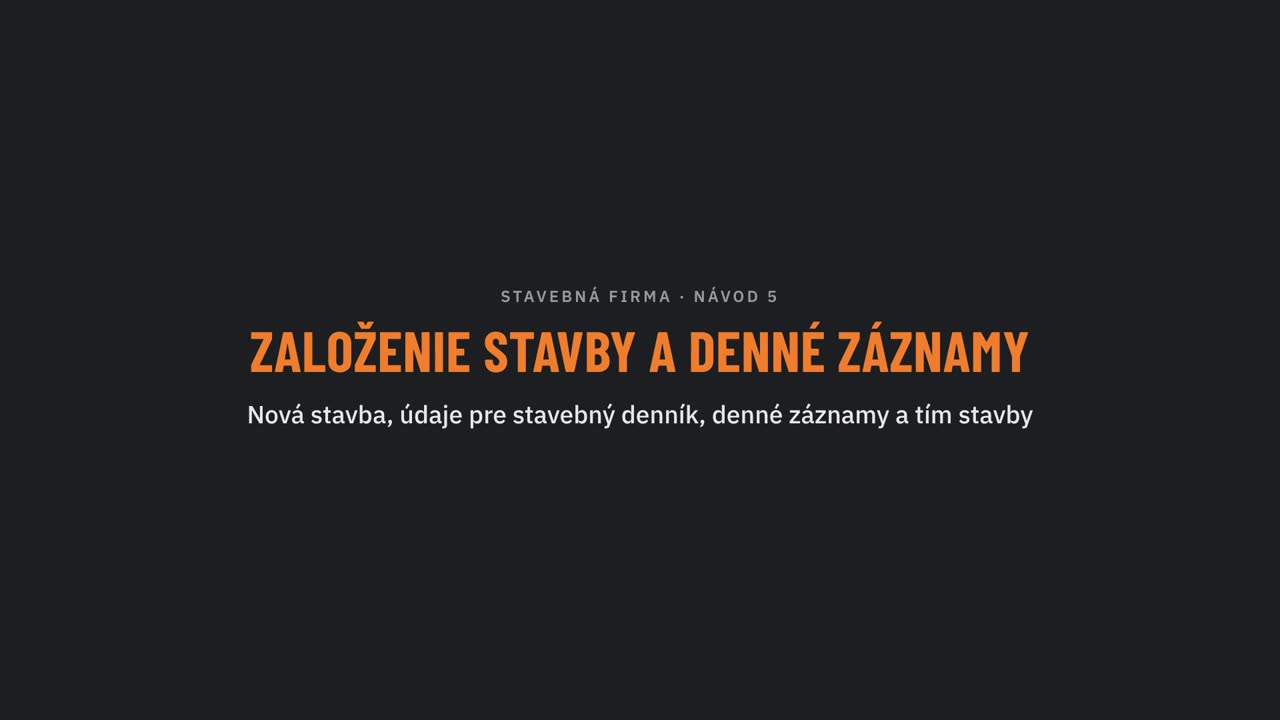
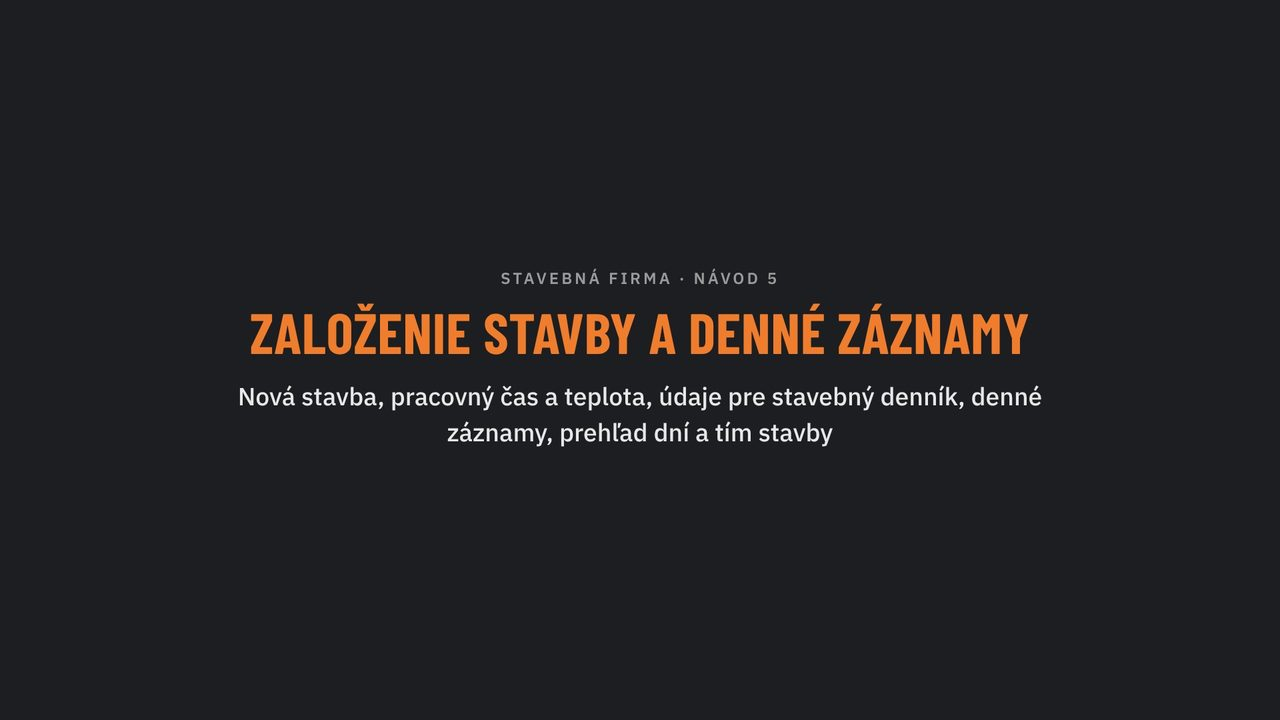
Ako to funguje: nové video 5 (denné záznamy) a návody 14–16 k modulu Obchod
Claude-Session: https://claude.ai/code/session_01Nm6vpnf2BQeUCPFJmFT6b4

Changed region(s): [[0.1875, 0.3667, 0.8125, 0.6111]]

diff --git a/build/prototype.html b/build/prototype.html
@@ -3228,7 +3228,7 @@ const HOWTO=[
   {t:"Nástenka a údaje o firme",d:"Prehľad udalostí na nástenke, úprava údajov o firme, strediská a e-mailové upozornenia.",url:"https://vimeo.com/1242587749",poster:"videa/nastenka-udaje-firmy.jpg",len:"1:54"},
   {t:"Zamestnanci a používatelia",d:"Evidencia zamestnancov, pozvánky kolegov do aplikácie a nastavenie ich prístupov k modulom.",url:"https://vimeo.com/1242587839",poster:"videa/zamestnanci-pouzivatelia.jpg",len:"1:44"},
   {t:"Strojový a vozový park",d:"Stroje a vozidlá firmy so sadzbami a fotkami, zakrytie EČV a ponuka strojov na prenájom.",url:"https://vimeo.com/1242587838",poster:"videa/strojovy-park.jpg",len:"2:12"},
-  {t:"Založenie stavby a denné záznamy",d:"Nová stavba, údaje pre stavebný denník, prvý denný záznam s počasím, tím stavby a pozvánka pre stavebný dozor.",url:"https://vimeo.com/1242587841",poster:"videa/zalozenie-stavby.jpg",len:"3:25"},
+  {t:"Založenie stavby a denné záznamy",d:"Nová stavba, pracovný čas a teplota, údaje pre stavebný denník, denné záznamy s počasím, pracovníkmi a strojmi od – do, dni bez prác, prehľad dní a tím stavby.",url:"https://vimeo.com/1247736059",poster:"videa/zalozenie-stavby.jpg",len:"5:14"},
   {t:"Rozpočet, súpis prác a fakturácia",d:"Import rozpočtu z ľubovoľného rozpočtového programu po objektoch, priebežný súpis vykonaných prác a fakturácia.",url:"https://vimeo.com/1242587840",poster:"videa/rozpocet-supis-fakturacia.jpg",len:"2:10"},
   {t:"Dokumentácia a export stavebného denníka",d:"Zložky dokumentácie stavby, skúšky a atesty a kompletný stavebný denník v PDF.",url:"https://vimeo.com/1242587852",poster:"videa/dokumentacia-export-dennika.jpg",len:"1:39"},
   {t:"Stavebný dozor",d:"Registrácia z pozvánky, zápisy a potvrdenia v dennom zázname, zvolanie kontrolného dňa a odsúhlasenie súpisu prác.",url:"https://vimeo.com/1242587866",poster:"videa/stavebny-dozor.jpg",len:"2:14"},
@@ -3236,7 +3236,10 @@ const HOWTO=[
   {t:"Personalistika – zamestnanci",d:"Nový zamestnanec, mzda a cena práce, mzdové údaje, veľkosti pracovného odevu a OOPP, vyhľadávanie v zozname.",url:"https://vimeo.com/1244889198",poster:"videa/personalistika-zamestnanci.jpg",len:"2:00"},
   {t:"Personalistika – dochádzka a podklady pre účtovníčku",d:"Zápis dochádzky, dovolenka, PN, priepustky a nadčasy, export do PDF a do mzdového programu, podklady pre mzdy.",url:"https://vimeo.com/1244889200",poster:"videa/personalistika-dochadzka.jpg",len:"3:04"},
   {t:"Personalistika – služobné cesty",d:"Pracovné cesty z dochádzky, výpočet cestovných náhrad a cestovný príkaz v PDF.",url:"https://vimeo.com/1244889199",poster:"videa/personalistika-sluzobne-cesty.jpg",len:"1:52"},
-  {t:"Personalistika – školenia a ostatné",d:"Plánovanie školení, prezenčná listina a platnosť, oboznámenia, zverené vozidlo a náradie, sumár OOPP.",url:"https://vimeo.com/1244889197",poster:"videa/personalistika-skolenia.jpg",len:"2:49"}];
+  {t:"Personalistika – školenia a ostatné",d:"Plánovanie školení, prezenčná listina a platnosť, oboznámenia, zverené vozidlo a náradie, sumár OOPP.",url:"https://vimeo.com/1244889197",poster:"videa/personalistika-skolenia.jpg",len:"2:49"},
+  {t:"Obchod – financie",d:"Výdavky firmy a stavieb, nákup na sklad, viac položiek z jedného dokladu, pravidelné mesačné výdavky a príjmy.",url:"https://vimeo.com/1247736056",poster:"videa/obchod-financie.jpg",len:"3:35"},
+  {t:"Obchod – cenník, sklad, ponuky a objednávky",d:"Položky cenníka, príjem a výdaj zo skladu s príjemkou a výdajkou, zložky skladu, cenové ponuky a objednávky s PDF a odoslaním e-mailom.",url:"https://vimeo.com/1247736055",poster:"videa/obchod-cennik-sklad.jpg",len:"5:54"},
+  {t:"Obchod – harmonogram",d:"Časový harmonogram stavby – oddiely, etapy a konštrukcie, týždne prác, prerušenie, lehota výstavby, PDF a pridanie do stavby.",url:"https://vimeo.com/1247736058",poster:"videa/obchod-harmonogram.jpg",len:"3:36"}];
 /* odkaz → adresa prehrávača; video sa načíta až po kliknutí (rýchlejšia stránka, YouTube/Vimeo neukladá cookies vopred) */
 function vidEmbed(u){u=String(u||"").trim();let m;
   if((m=u.match(/(?:youtube\.com\/(?:watch\?(?:.*&)?v=|shorts\/|embed\/|live\/)|youtu\.be\/)([\w-]{11})/)))return {src:`https://www.youtube-nocookie.com/embed/${m[1]}?autoplay=1&rel=0`,thumb:`https://i.ytimg.com/vi/${m[1]}/hqdefault.jpg`};

diff --git a/web/index.html b/web/index.html
@@ -3606,7 +3606,7 @@ const HOWTO=[
   {t:"Nástenka a údaje o firme",d:"Prehľad udalostí na nástenke, úprava údajov o firme, strediská a e-mailové upozornenia.",url:"https://vimeo.com/1242587749",poster:"videa/nastenka-udaje-firmy.jpg",len:"1:54"},
   {t:"Zamestnanci a používatelia",d:"Evidencia zamestnancov, pozvánky kolegov do aplikácie a nastavenie ich prístupov k modulom.",url:"https://vimeo.com/1242587839",poster:"videa/zamestnanci-pouzivatelia.jpg",len:"1:44"},
   {t:"Strojový a vozový park",d:"Stroje a vozidlá firmy so sadzbami a fotkami, zakrytie EČV a ponuka strojov na prenájom.",url:"https://vimeo.com/1242587838",poster:"videa/strojovy-park.jpg",len:"2:12"},
-  {t:"Založenie stavby a denné záznamy",d:"Nová stavba, údaje pre stavebný denník, prvý denný záznam s počasím, tím stavby a pozvánka pre stavebný dozor.",url:"https://vimeo.com/1242587841",poster:"videa/zalozenie-stavby.jpg",len:"3:25"},
+  {t:"Založenie stavby a denné záznamy",d:"Nová stavba, pracovný čas a teplota, údaje pre stavebný denník, denné záznamy s počasím, pracovníkmi a strojmi od – do, dni bez prác, prehľad dní a tím stavby.",url:"https://vimeo.com/1247736059",poster:"videa/zalozenie-stavby.jpg",len:"5:14"},
   {t:"Rozpočet, súpis prác a fakturácia",d:"Import rozpočtu z ľubovoľného rozpočtového programu po objektoch, priebežný súpis vykonaných prác a fakturácia.",url:"https://vimeo.com/1242587840",poster:"videa/rozpocet-supis-fakturacia.jpg",len:"2:10"},
   {t:"Dokumentácia a export stavebného denníka",d:"Zložky dokumentácie stavby, skúšky a atesty a kompletný stavebný denník v PDF.",url:"https://vimeo.com/1242587852",poster:"videa/dokumentacia-export-dennika.jpg",len:"1:39"},
   {t:"Stavebný dozor",d:"Registrácia z pozvánky, zápisy a potvrdenia v dennom zázname, zvolanie kontrolného dňa a odsúhlasenie súpisu prác.",url:"https://vimeo.com/1242587866",poster:"videa/stavebny-dozor.jpg",len:"2:14"},
@@ -3614,7 +3614,10 @@ const HOWTO=[
   {t:"Personalistika – zamestnanci",d:"Nový zamestnanec, mzda a cena práce, mzdové údaje, veľkosti pracovného odevu a OOPP, vyhľadávanie v zozname.",url:"https://vimeo.com/1244889198",poster:"videa/personalistika-zamestnanci.jpg",len:"2:00"},
   {t:"Personalistika – dochádzka a podklady pre účtovníčku",d:"Zápis dochádzky, dovolenka, PN, priepustky a nadčasy, export do PDF a do mzdového programu, podklady pre mzdy.",url:"https://vimeo.com/1244889200",poster:"videa/personalistika-dochadzka.jpg",len:"3:04"},
   {t:"Personalistika – služobné cesty",d:"Pracovné cesty z dochádzky, výpočet cestovných náhrad a cestovný príkaz v PDF.",url:"https://vimeo.com/1244889199",poster:"videa/personalistika-sluzobne-cesty.jpg",len:"1:52"},
-  {t:"Personalistika – školenia a ostatné",d:"Plánovanie školení, prezenčná listina a platnosť, oboznámenia, zverené vozidlo a náradie, sumár OOPP.",url:"https://vimeo.com/1244889197",poster:"videa/personalistika-skolenia.jpg",len:"2:49"}];
+  {t:"Personalistika – školenia a ostatné",d:"Plánovanie školení, prezenčná listina a platnosť, oboznámenia, zverené vozidlo a náradie, sumár OOPP.",url:"https://vimeo.com/1244889197",poster:"videa/personalistika-skolenia.jpg",len:"2:49"},
+  {t:"Obchod – financie",d:"Výdavky firmy a stavieb, nákup na sklad, viac položiek z jedného dokladu, pravidelné mesačné výdavky a príjmy.",url:"https://vimeo.com/1247736056",poster:"videa/obchod-financie.jpg",len:"3:35"},
+  {t:"Obchod – cenník, sklad, ponuky a objednávky",d:"Položky cenníka, príjem a výdaj zo skladu s príjemkou a výdajkou, zložky skladu, cenové ponuky a objednávky s PDF a odoslaním e-mailom.",url:"https://vimeo.com/1247736055",poster:"videa/obchod-cennik-sklad.jpg",len:"5:54"},
+  {t:"Obchod – harmonogram",d:"Časový harmonogram stavby – oddiely, etapy a konštrukcie, týždne prác, prerušenie, lehota výstavby, PDF a pridanie do stavby.",url:"https://vimeo.com/1247736058",poster:"videa/obchod-harmonogram.jpg",len:"3:36"}];
 /* odkaz → adresa prehrávača; video sa načíta až po kliknutí (rýchlejšia stránka, YouTube/Vimeo neukladá cookies vopred) */
 function vidEmbed(u){u=String(u||"").trim();let m;
   if((m=u.match(/(?:youtube\.com\/(?:watch\?(?:.*&)?v=|shorts\/|embed\/|live\/)|youtu\.be\/)([\w-]{11})/)))return {src:`https://www.youtube-nocookie.com/embed/${m[1]}?autoplay=1&rel=0`,thumb:`https://i.ytimg.com/vi/${m[1]}/hqdefault.jpg`};

diff --git a/web/sw.js b/web/sw.js
@@ -1,6 +1,6 @@
 /* Service worker aplikácie Stavebná firma – aplikácia sa otvorí aj bez signálu.
    Údaje firmy sa sem neukladajú (tie drží aplikácia v IndexedDB), iba samotná stránka a knižnice. */
-const V="sf-fb2054ca68";
+const V="sf-ca8b3706c3";
 const SHELL=["/","/manifest.webmanifest","/icon-192.png","/icon-512.png"];
 const CDN=/^https:\/\/(cdnjs\.cloudflare\.com|cdn\.jsdelivr\.net|fonts\.googleapis\.com|fonts\.gstatic\.com)\//;
 self.addEventListener("install",e=>{e.waitUntil(caches.open(V).then(c=>c.addAll(SHELL)).then(()=>self.skipWaiting()))});
